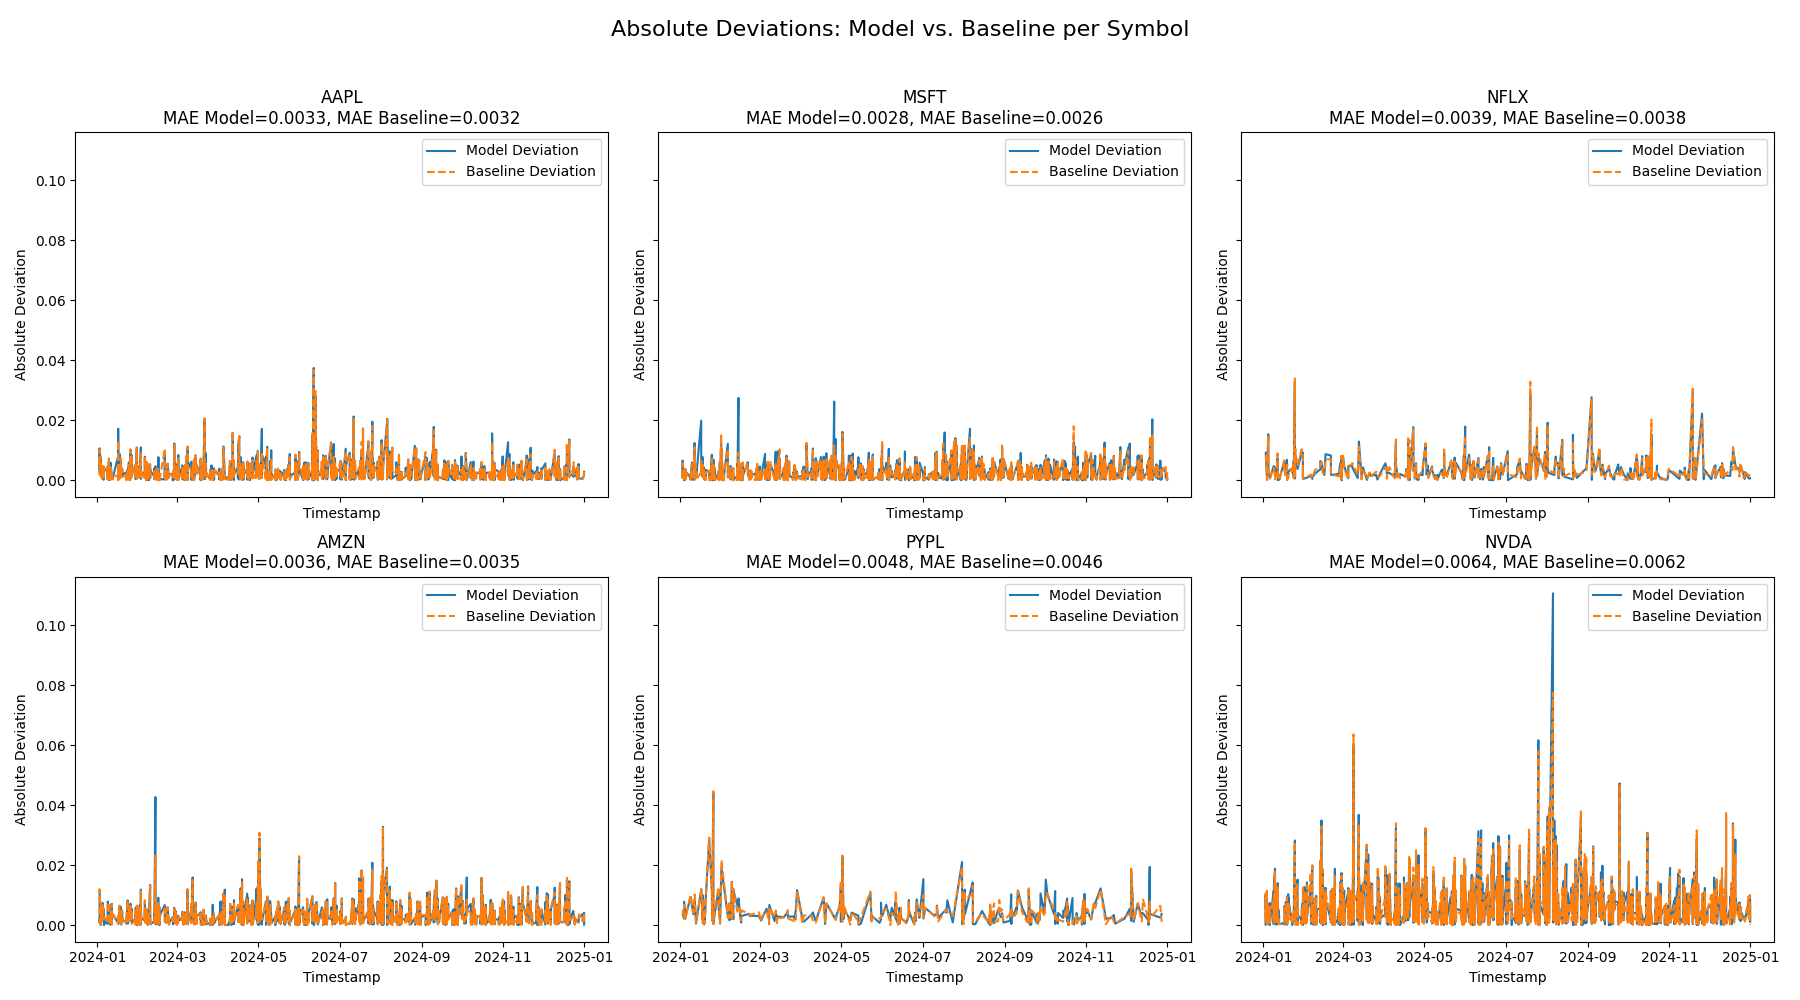
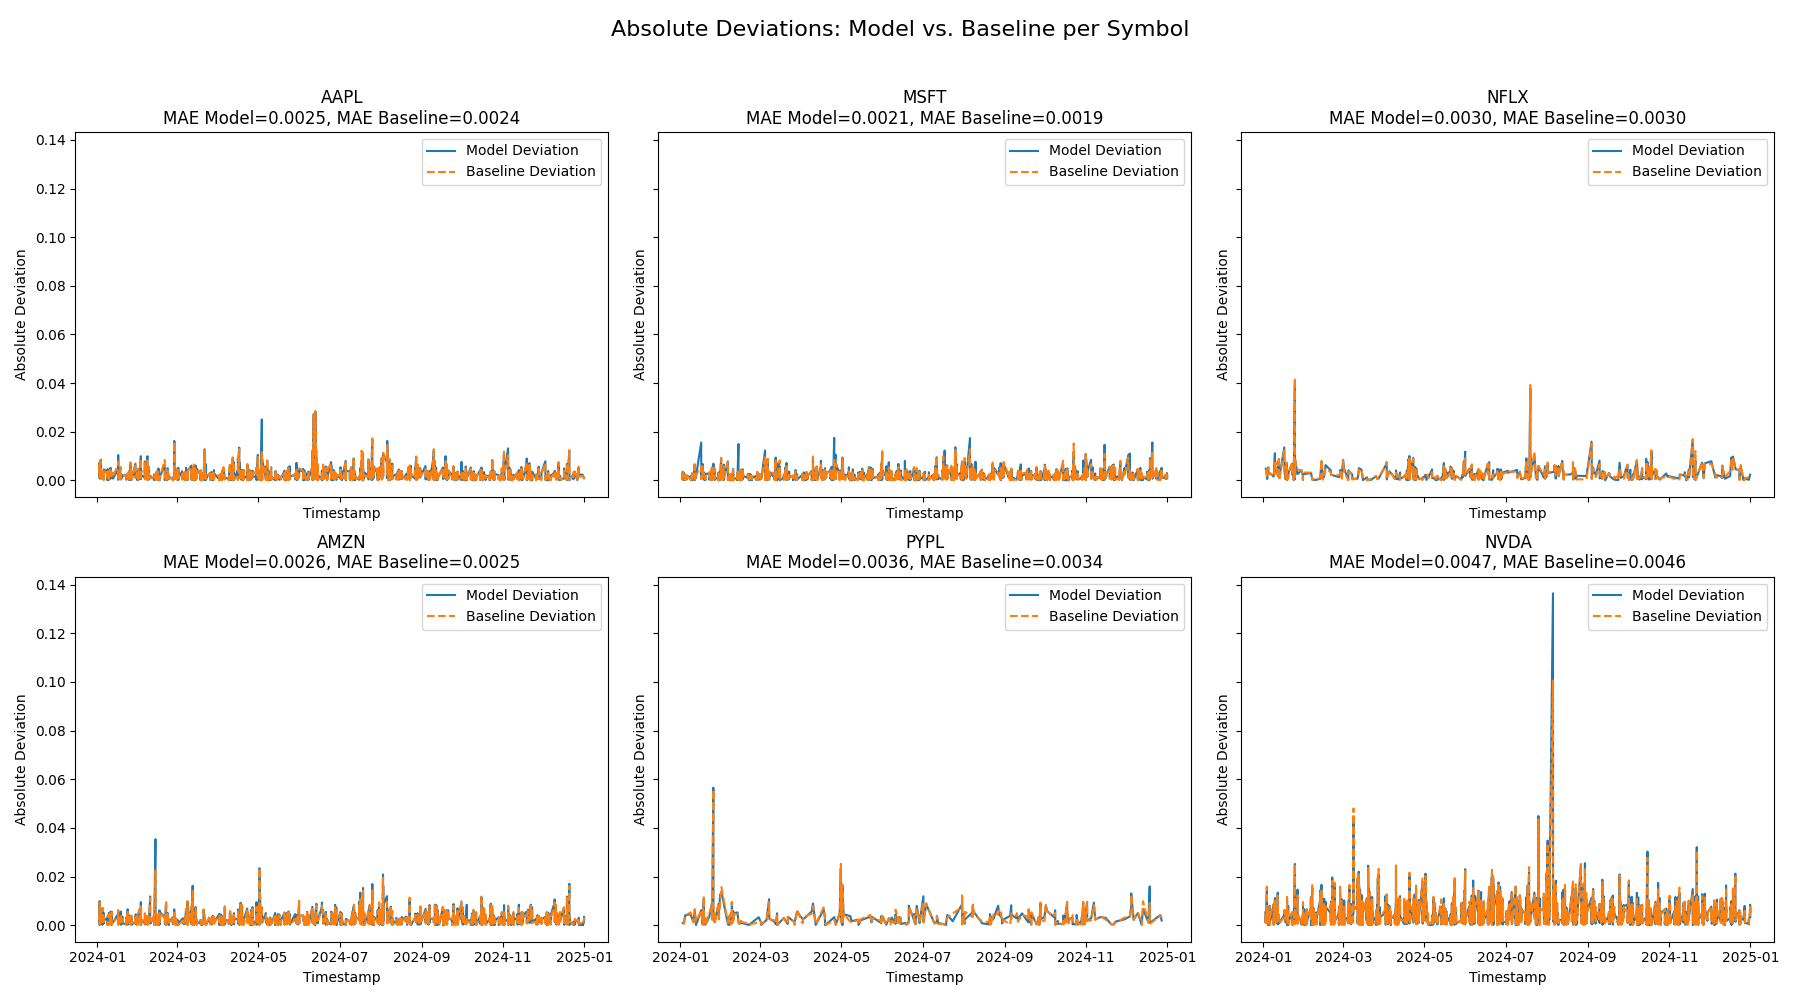
Updated past steps

diff --git a/scripts/07_model_training.py b/scripts/07_model_training.py
@@ -6,18 +6,21 @@ import matplotlib.pyplot as plt
 import joblib
 
 # Load parameters
+print('Loading parameters...')
 params = yaml.safe_load(open("../data/conf/params.yaml"))
 PATH_BARS = params['DATA_ACQUISITON']['DATA_PATH']
 SYMBOLS = params['DATA_ACQUISITON']['SYMBOLS']
 PATH_FIGURE = params['DATA_UNDERSTANDING']['FIGURE_PATH']
 
 # Load training, validation
+print('Loading data sets...')
 X_train = pd.read_parquet(f"{PATH_BARS}/news model/X_train_news.parquet")
 y_train = pd.read_parquet(f"{PATH_BARS}/news model/y_train_news.parquet")
 X_val = pd.read_parquet(f"{PATH_BARS}/news model/X_val_news.parquet")
 y_val = pd.read_parquet(f"{PATH_BARS}/news model/y_val_news.parquet")
 
 # Initialize and train Random Forest model
+print("Initializing and training random forest model...")
 model = RandomForestRegressor(n_estimators=300, random_state=42, n_jobs=-1)
 model.fit(X_train, y_train["future_return_30m"].values.ravel())
 
@@ -25,6 +28,7 @@ model.fit(X_train, y_train["future_return_30m"].values.ravel())
 joblib.dump(model, f"{PATH_BARS}/news model/random_forest_model_news.pkl")
 
 # Deviation per symbol
+print("Plotting results...")
 results_per_symbol = []
 
 fig, axes = plt.subplots(2, 3, figsize=(18, 10), sharex=True, sharey=True)
@@ -66,3 +70,9 @@ for i, symbol in enumerate(SYMBOLS):
 plt.suptitle("Absolute Deviations: Model vs. Baseline per Symbol", fontsize=16)
 plt.tight_layout(rect=[0, 0, 1, 0.96])
 plt.savefig(f"{PATH_FIGURE}/07_random_forest_MAE_per_symbol.png");plt.close()
+
+print("Saving results...")
+# Save MAE results per symbol
+results_df = pd.DataFrame(results_per_symbol, columns=["Symbol", "MAE_Model", "MAE_Baseline"])
+print(results_df)
+results_df.to_csv(f"{PATH_BARS}/news_random_forest_train_metrics_per_symbol.csv", index=False)

diff --git a/scripts/08_model_testing.py b/scripts/08_model_testing.py
@@ -64,4 +64,4 @@ plt.close()
 # Save MAE results per symbol
 results_df = pd.DataFrame(results_per_symbol, columns=["Symbol", "MAE_Model", "MAE_Baseline"])
 print(results_df)
-results_df.to_csv(f"{PATH_BARS}/news model/random_forest_test_metrics_per_symbol.csv", index=False)
+results_df.to_csv(f"{PATH_BARS}/news_random_forest_test_metrics_per_symbol.csv", index=False)

diff --git a/scripts/03_data_pre_split_news.py b/scripts/03_data_pre_split_news.py
@@ -42,7 +42,7 @@ prices["timestamp"] = pd.to_datetime(prices["timestamp"], utc=True)
 prices["date"] = pd.to_datetime(prices["timestamp"].dt.date)
 
 # Calculate future returns for each news event
-horizon = 60  # Minutes into the future
+horizon = 30  # Minutes into the future
 
 targets = []
 for symbol in SYMBOLS:
